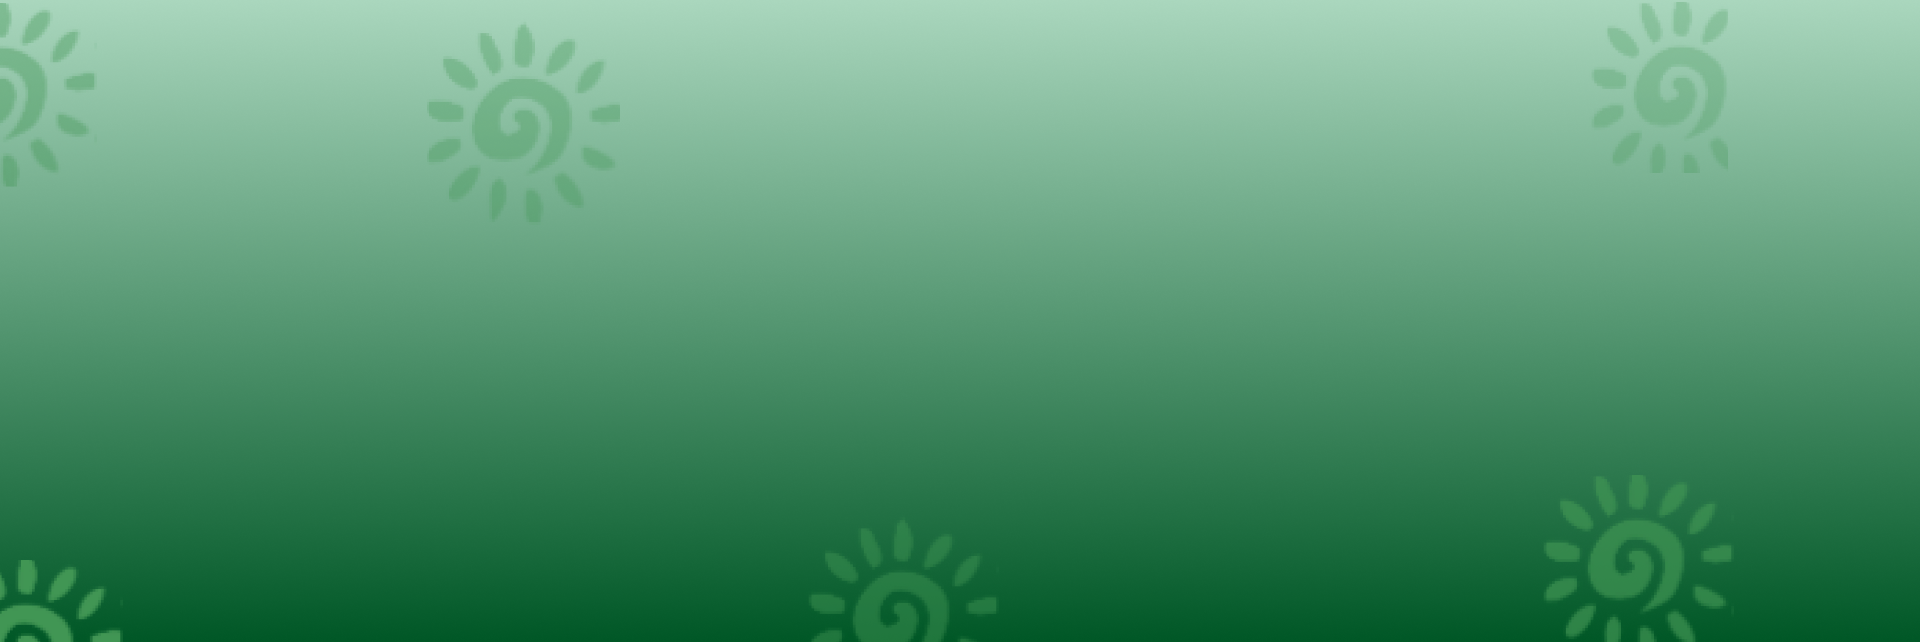
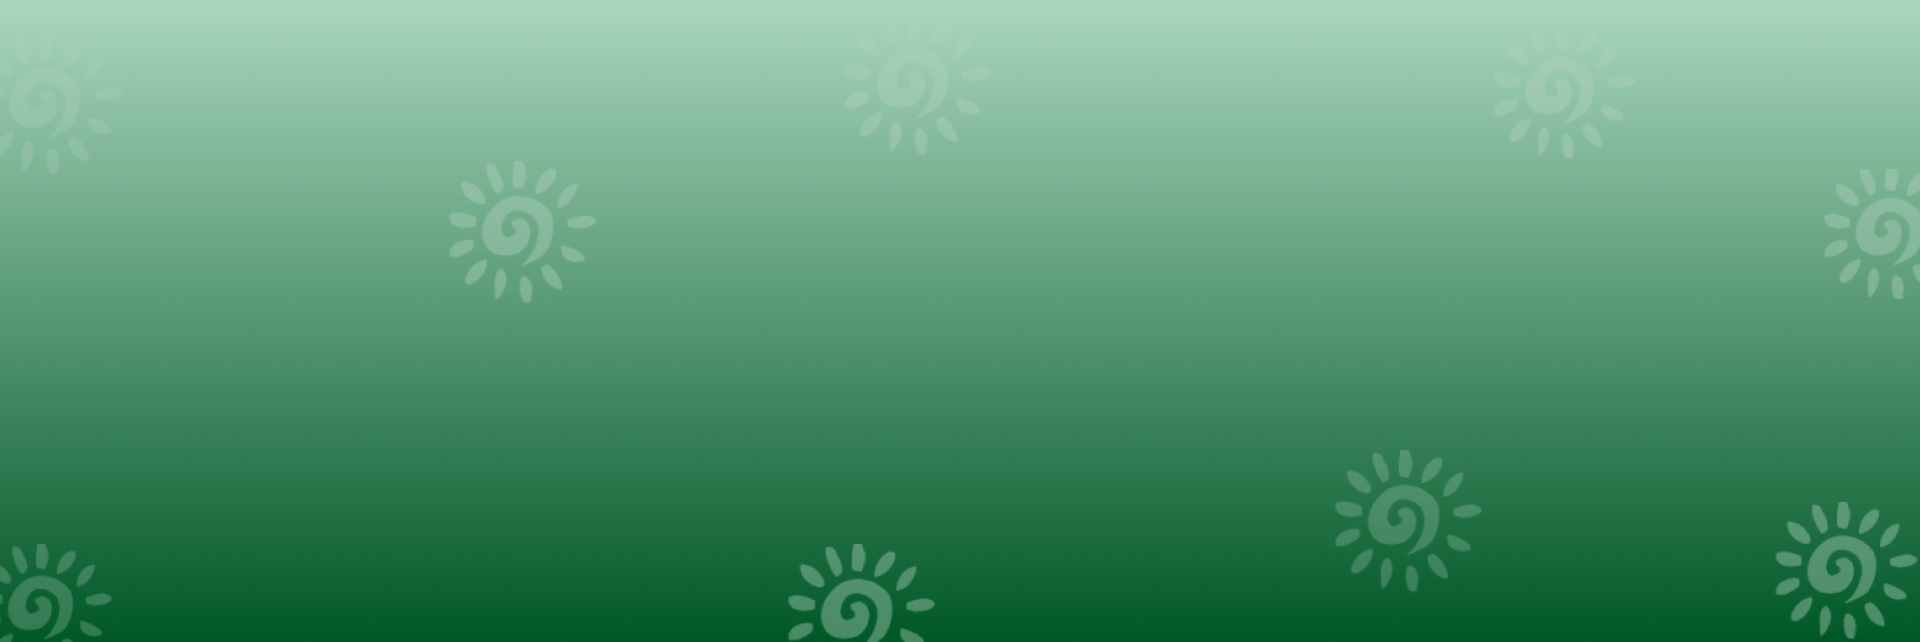
quienesSomos2

diff --git a/quieneSomos.html b/quieneSomos.html
@@ -66,8 +66,13 @@
                 <h1 class="display-5 fw-bold text-body-emphasis d-inline-block" id="quieneSomos">¿Quiénes somos?</h1>
                 <img src="/img/tiendaLogo.png" alt="" class="d-inline-block ml-3" id="quieneSomos">
               </div>
-              <p class="fs-3 text-center mt-5" data-aos="fade-left">Somos una fundación sin ánimo de lucro, inspirados en las personas con ADEE y la fundación ALPE (por su gran trabajo), que identificó la falta de conocimiento e información en Colombia para esta población, frente a sus necesidades.</p>
+              <p class="fs-3 text-center mt-2" data-aos="fade-left">Somos una fundación sin ánimo de lucro, inspirados en las personas con ADEE y la fundación ALPE (por su gran trabajo), que identificó la falta de conocimiento e información en Colombia para esta población, frente a sus necesidades.</p>
               <div class="text-center">
+              </div>
+              <div class="d-flex justify-content-center" >
+                <img src="/img/kids2 - copia.png" id="quienesImg" alt="">
+                <img src="/img/kids2 - copia.png" id="quienesImg" alt="">
+                <img src="/img/kids2 - copia.png" id="quienesImg" alt="">
               </div>
             </div>
           </div>
@@ -97,73 +102,77 @@
            Especificos
         </h1>
         <div class="achievement" data-aos="fade-right" data-aos-delay="100">
-          <div class="check-box">
-            <i class="fas fa-check check-icon"></i>
+          <div>
+            <img src="/img/manos.png" id="symbol" alt="">
           </div>
-          <p class="text-muted" >
+          <p class="text-muted">
             Convertir en expertos en ADEE a pacientes y familias mediante la formación online y presencial, gracias a la información compartida de fundaciones de talla internacional como la fundación ALPE con gran experiencia y reconocimiento en el tema.
           </p>
         </div>
         <div class="achievement" data-aos="fade-right" data-aos-delay="200">
-          <div class="check-box">
-            <i class="fas fa-check check-icon"></i>
+          <div >
+            <img src="/img/altavoz.png" id="symbol" alt="">
           </div>
           <p class="text-muted">
             Extender la difusión de conocimientos y buenas prácticas entre pacientes, familias y profesionales.
           </p>
         </div>
         <div class="achievement" data-aos="fade-right" data-aos-delay="300">
-          <div class="check-box">
-            <i class="fas fa-check check-icon"></i>
+          <div>
+            <img src="/img/promover.png" id="symbol" alt="">
           </div>
           <p class="text-muted">
             Promover el sentido de pertenencia, el desarrollo y una autoimagen positiva en niños y adolescentes mediante el Campamento (DESAFIO ADEES) y la Comunidad joven.</p>
         </div>
         <div class="achievement" data-aos="fade-right" data-aos-delay="400">
-          <div class="check-box">
-            <i class="fas fa-check check-icon"></i>
+          <div>
+            <img src="/img/potenciar.png" id="symbol" alt="">
           </div>
           <p class="text-muted">
             Potenciar y desarrollar la colaboración entre diferentes fundaciones de pacientes en Colombia mediante proyectos comunes que empoderen a los pacientes con ADEE, a través de las organizaciones, ante instituciones nacionales e internacionales.</p>
         </div>
         <div class="achievement" data-aos="fade-right" data-aos-delay="500">
-          <div class="check-box">
-            <i class="fas fa-check check-icon"></i>
+          <div>
+            <img src="/img/puntoEncuentro.png" id="symbol" alt="">
           </div>
           <p class="text-muted">
             Llevar a cabo un Encuentro ADEE a nivel nacional presencial con personas con ADEE y sus familias. </p>
         </div>
         <div class="achievement" data-aos="fade-right" data-aos-delay="600">
-          <div class="check-box">
-            <i class="fas fa-check check-icon"></i>
+          <div>
+            <img src="/img/meta.png" id="symbol" alt="">
+
           </div>
           <p class="text-muted">
             Conmemorar el 25 de octubre mediante una carrera atlética 10k, para lograr el reconocimiento al derecho a la inclusión social, la igualdad y el respeto a los derechos humanos de las personas con ADEE a nivel nacional.</p>
         </div>
         <div class="achievement" data-aos="fade-right" data-aos-delay="700">
-          <div class="check-box">
-            <i class="fas fa-check check-icon"></i>
+          <div>
+            <img src="/img/valor.png" id="symbol" alt="">
+ 
           </div>
           <p class="text-muted">
             Lograr valoraciones gratuitas para las personas con ADEE y sus familias, con profesionales de la salud con experiencia y conocimientos con pacientes con ADEE.</p>
         </div>
         <div class="achievement" data-aos="fade-right" data-aos-delay="800">
-          <div class="check-box">
-            <i class="fas fa-check check-icon"></i>
+          <div>
+            <img src="/img/capacitar.png" id="symbol" alt="">
+
           </div>
           <p class="text-muted">
             Capacitar a profesionales de la salud por medio de cursos que ofrecen fundaciones y hospitales a nivel internacional.</p>
         </div>
         <div class="achievement" data-aos="fade-right" data-aos-delay="800">
-          <div class="check-box">
-            <i class="fas fa-check check-icon"></i>
+          <div>
+            <img src="/img/abordar.png" id="symbol" alt="">
+
           </div>
           <p class="text-muted">
             Abordar la educación inclusiva mediante la investigación participando en proyectos nacionales e internacionales, mediante la comunicación y formación en los centros escolares, tanto presencialmente como a través de internet. La falta de información, pero también la falta de conciencia, mantienen a muchos niños con ADEE en las escuelas y colegios en una situación de distanciamiento o soledad que es fácil evitar con las estrategias adecuadas.</p>
         </div>
       <div class="achievement" data-aos="fade-right" data-aos-delay="800">
-        <div class="check-box">
-          <i class="fas fa-check check-icon"></i>
+        <div>
+          <img src="/img/alcanzar.png" id="symbol" alt="">
         </div>
         <p class="text-muted">
           Alcanzar el reconocimiento de un trabajo digno para todas las personas con ADEE, y no permitir la denigración de su imagen y solo sean contratados para ser objeto de burlas, sabemos que es la única discapacidad que provoca burlas en la sociedad.</p>
@@ -183,79 +192,74 @@
   </div>
 
   <div class="container">
+        <div class="achievement" data-aos="fade-right" data-aos-delay="100">
+          <div>
+            <img src="img/salud.png" id="symbol1" alt="">
+          </div>
+          <div id="principios">
+            <h4>Perspectiva interdisciplinar de la salud </h4>
+          <p class="text-muted" id="principios">
+            La salud es concebida como el equilibrio entre diferentes facetas que impactan en el bienestar general de la persona,que se afectan mutuamente 
+            y que son dignas de atención y cuidado, como la salud física, la socialización, el equilibrio psicológico, el desarrollo emocional,
+            la familia, la escuela, la amistad, la creatividad, etc. Todas ellas son importantes, todas ellas son útiles, todas ellas pueden ayudar.
+          </p>
+        </div>
+      </div>
+      <div class="achievement" data-aos="fade-right" data-aos-delay="100">
+        <div>
+          <img src="img/seguro.png" id="symbol2" alt="">
+        </div>
+        <div id="principios">
+          <h4>La salud </h4>
+        <p class="text-muted" id="principios">
+          Así entendida, define las diferentes áreas de trabajo de la Fundación:
+        </p>
+        <ul>
+          <li>
+            Individual, desde una perspectiva integral, que incluye la atención clínica y también la psicológica, la afectiva y la socioeducativa;
+        </li>
+        <li>
+          Social, dado que cada individuo es el nexo de intricadas relaciones.
+        </li>
+      </ul>
+      </div>
+    </div>
     <div class="achievement" data-aos="fade-right" data-aos-delay="100">
-      <div class="check-box">
-        <i class="fas fa-check check-icon"></i>
+      <div>
+        <img src="img/educacion.png" id="symbol3" alt="">
       </div>
-      <p class="text-muted" >
-        La salud es concebida como el equilibrio entre diferentes facetas que impactan en el bienestar general de la persona, que se afectan mutuamente y que son dignas de atención y cuidado, como la salud física, la socialización, el equilibrio psicológico, el desarrollo emocional, la familia, la escuela, la amistad, la creatividad, etc. Todas ellas son importantes, todas ellas son útiles, todas ellas pueden ayudar.
+      <div id="principios">
+        <h4>Educación inclusiva </h4>
+      <p class="text-muted" id="principios">
+        La Fundación es consciente de la importancia de la etapa escolar y de la educación en el
+         desarrollo presente y futuro de una vida. Los principios de la educación inclusiva guían nuestra dedicación a este importante aspecto.
       </p>
     </div>
-    <div class="achievement" data-aos="fade-right" data-aos-delay="200">
-      <div class="check-box">
-        <i class="fas fa-check check-icon"></i>
+    </div>
+    <div class="achievement" data-aos="fade-right" data-aos-delay="100">
+      <div>
+        <img src="img/regalo.png" id="symbol4" alt="">
       </div>
-      <p class="text-muted">
-        Extender la difusión de conocimientos y buenas prácticas entre pacientes, familias y profesionales.
+      <div id="principios">
+        <h4>Gratuidad</h4>
+      <p class="text-muted" id="principios">
+        Todas las personas con ADEE y sus familias tienen los mismos derechos y la misma atención por parte de la Fundación. 
+        Los servicios son siempre serán gratuitos para promover una igualdad efectiva y que nadie quede fuera. La Fundación 
+        trabaja constantemente para conseguir recursos y lograr llevar a cabo todos estos proyectos y ofrecer estos servicios.
       </p>
     </div>
-    <div class="achievement" data-aos="fade-right" data-aos-delay="300">
-      <div class="check-box">
-        <i class="fas fa-check check-icon"></i>
+    </div>
+    <div class="achievement" data-aos="fade-right" data-aos-delay="100">
+      <div>
+        <img src="img/equipo.png" id="symbol5" alt="">
       </div>
-      <p class="text-muted">
-        Promover el sentido de pertenencia, el desarrollo y una autoimagen positiva en niños y adolescentes mediante el Campamento (DESAFIO ADEES) y la Comunidad joven.</p>
+      <div id="principios">
+        <h4>Trabajo digno</h4>
+      <p class="text-muted" id="principios">
+        Todas las personas con ADEE, tiene derecho a tener un trabajo digno
+      </p>
     </div>
-    <div class="achievement" data-aos="fade-right" data-aos-delay="400">
-      <div class="check-box">
-        <i class="fas fa-check check-icon"></i>
-      </div>
-      <p class="text-muted">
-        Todas las personas con ADEE y sus familias tienen los mismos derechos y la misma atención por parte de la Fundación. Los servicios son siempre serán gratuitos para promover una igualdad efectiva y que nadie quede fuera. La Fundación trabaja constantemente para conseguir recursos y lograr llevar a cabo todos estos proyectos y ofrecer estos servicios.</p>
-    </div>
-    <div class="achievement" data-aos="fade-right" data-aos-delay="500">
-      <div class="check-box">
-        <i class="fas fa-check check-icon"></i>
-      </div>
-      <p class="text-muted">
-        Llevar a cabo un Encuentro ADEE a nivel nacional presencial con personas con ADEE y sus familias. </p>
-    </div>
-    <div class="achievement" data-aos="fade-right" data-aos-delay="600">
-      <div class="check-box">
-        <i class="fas fa-check check-icon"></i>
-      </div>
-      <p class="text-muted">
-        Conmemorar el 25 de octubre mediante una carrera atlética 10k, para lograr el reconocimiento al derecho a la inclusión social, la igualdad y el respeto a los derechos humanos de las personas con ADEE a nivel nacional.</p>
-    </div>
-    <div class="achievement" data-aos="fade-right" data-aos-delay="700">
-      <div class="check-box">
-        <i class="fas fa-check check-icon"></i>
-      </div>
-      <p class="text-muted">
-        Lograr valoraciones gratuitas para las personas con ADEE y sus familias, con profesionales de la salud con experiencia y conocimientos con pacientes con ADEE.</p>
-    </div>
-    <div class="achievement" data-aos="fade-right" data-aos-delay="800">
-      <div class="check-box">
-        <i class="fas fa-check check-icon"></i>
-      </div>
-      <p class="text-muted">
-        Capacitar a profesionales de la salud por medio de cursos que ofrecen fundaciones y hospitales a nivel internacional.</p>
-    </div>
-    <div class="achievement" data-aos="fade-right" data-aos-delay="800">
-      <div class="check-box">
-        <i class="fas fa-check check-icon"></i>
-      </div>
-      <p class="text-muted">
-        Abordar la educación inclusiva mediante la investigación participando en proyectos nacionales e internacionales, mediante la comunicación y formación en los centros escolares, tanto presencialmente como a través de internet. La falta de información, pero también la falta de conciencia, mantienen a muchos niños con ADEE en las escuelas y colegios en una situación de distanciamiento o soledad que es fácil evitar con las estrategias adecuadas.</p>
-    </div>
-  <div class="achievement" data-aos="fade-right" data-aos-delay="800">
-    <div class="check-box">
-      <i class="fas fa-check check-icon"></i>
-    </div>
-    <p class="text-muted">
-      Alcanzar el reconocimiento de un trabajo digno para todas las personas con ADEE, y no permitir la denigración de su imagen y solo sean contratados para ser objeto de burlas, sabemos que es la única discapacidad que provoca burlas en la sociedad.</p>
   </div>
-</div>
 </div>
 
 

diff --git a/style/quienesSomos.css b/style/quienesSomos.css
@@ -18,11 +18,79 @@
     text-align: center; /* Centra el texto horizontalmente */
 }
 
-#tiendalogo {
+#quieneSomos {
     width: auto;
     height: 80px;
     margin-left: 10px;
 }
 
 
+#quienesImg {
+    margin: 20px;
+    width: 250px;
+    transition: transform 0.3s ease; /* Transición suave para el cambio de escala */
+}
 
+#quienesImg:hover {
+    transform: scale(1.1); /* Cambia el tamaño al 110% al hacer hover */
+}
+
+#objetivos {
+    color: #266F43!important;
+}
+
+#symbol {
+    width: 48px;
+    height: auto;
+    margin: 10px;
+}
+
+#principios {
+    background-color: #AFD1BD;
+    margin: 20px;
+    padding-left: 50px;
+    padding-right: 50px;
+}
+
+#symbol1 {
+    width: 80px;
+    height: auto;
+    margin: 10px;
+    padding-top: 41px;
+    padding-bottom: 41px;
+    background-color: #AFD1BD;
+}
+
+#symbol2 {
+    width: 80px;
+    height: auto;
+    margin: 10px;
+    padding-top: 36px;
+    padding-bottom: 36px;
+    background-color: #AFD1BD;
+}
+
+#symbol3 {
+    width: 80px;
+    height: auto;
+    margin: 10px;
+    padding-top: 24px;
+    padding-bottom: 24px;
+    background-color: #AFD1BD;
+}
+#symbol4 {
+    width: 80px;
+    height: auto;
+    margin: 10px;
+    padding-top: 30px;
+    padding-bottom: 30px;
+    background-color: #AFD1BD;
+}
+#symbol5 {
+    width: 80px;
+    height: auto;
+    margin: 10px;
+    padding-top: 2px;
+    padding-bottom: 2px;
+    background-color: #AFD1BD;
+}
